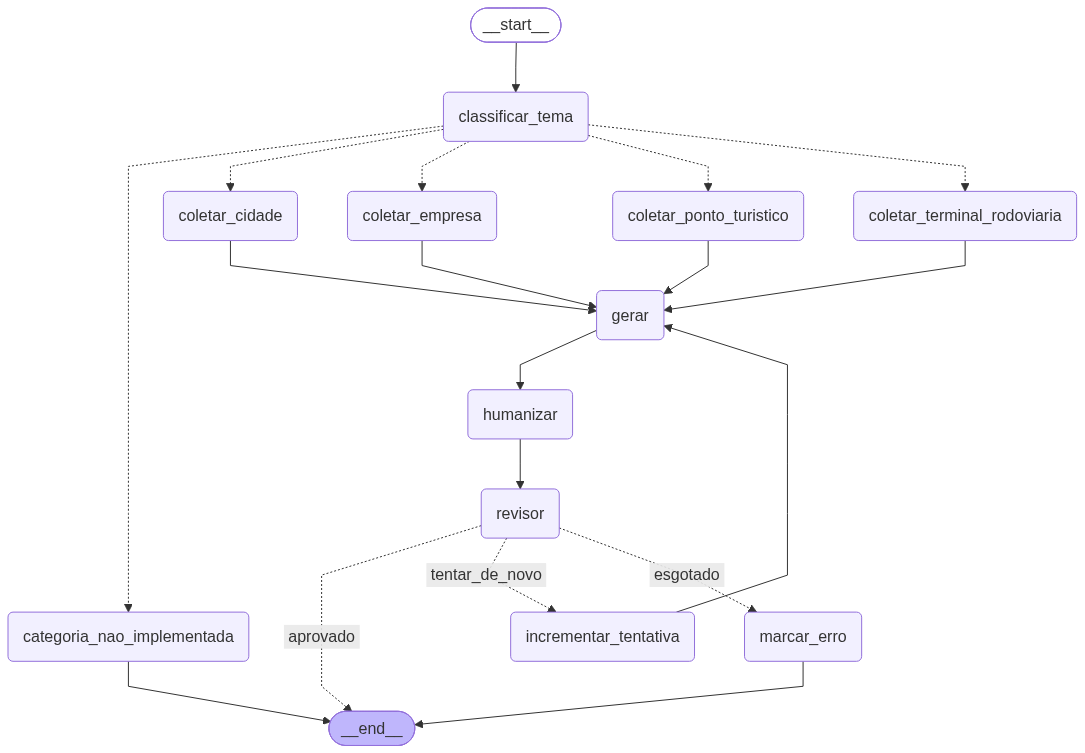
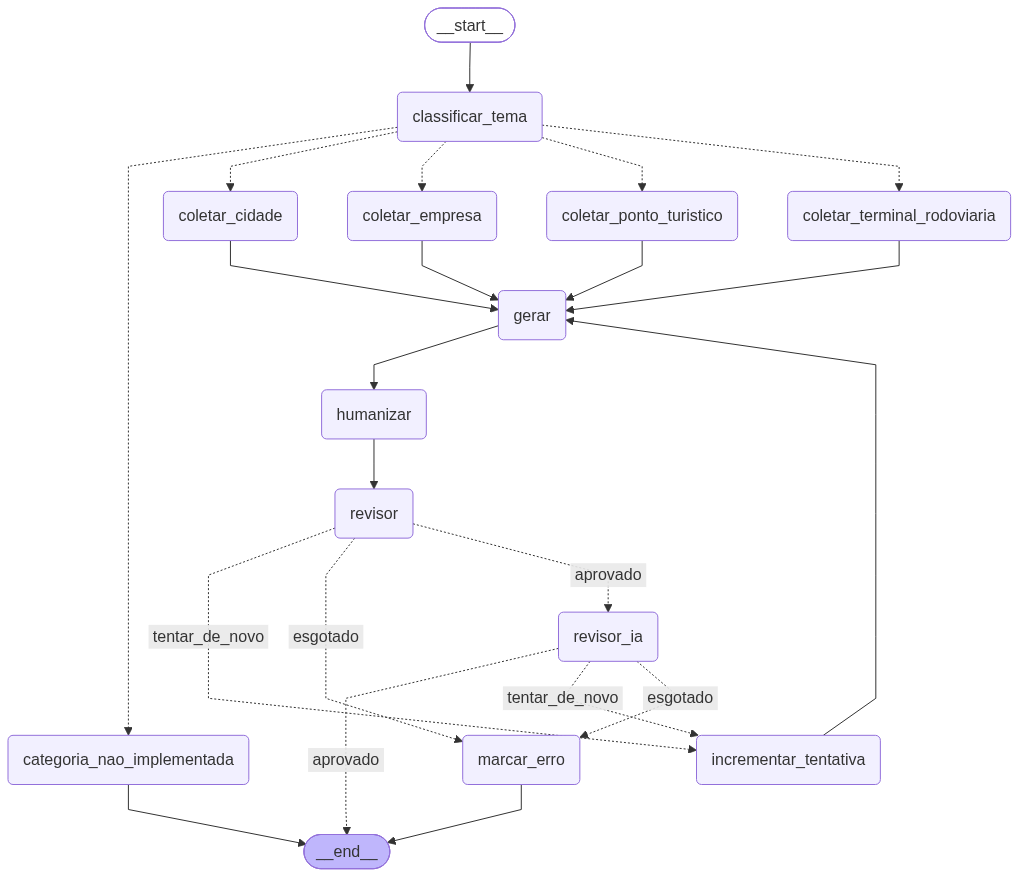
Adicionando Revisor IA

diff --git a/formatos/descricao/grafo_descricao.py b/formatos/descricao/grafo_descricao.py
@@ -2,18 +2,28 @@
 Grafo LangGraph que substitui o par interpretador_descricao + interacao_ia_
 descricao como ponto de entrada de geração: classifica o tema, roteia pra
 coleta certa por categoria, gera, humaniza e revisa o resultado — voltando
-pra geração se o revisor reprovar, até um teto de tentativas.
+pra geração se algum revisor reprovar, até um teto de tentativas.
 
 Só a coleta (e, pra empresa, a classificação de tipo) é ramificada por
-categoria. Gerar, humanizar e revisar são nós únicos, compartilhados por
-qualquer categoria — o humanizador já funciona assim hoje (roda pra
-qualquer descrição, não só empresa), então não faz sentido duplicar esse
-trecho por categoria só porque o revisor é novo.
+categoria. Gerar, humanizar e os dois revisores são nós únicos,
+compartilhados por qualquer categoria — o humanizador já funciona assim
+hoje (roda pra qualquer descrição, não só empresa), então não faz sentido
+duplicar esse trecho por categoria só porque os revisores são novos.
+
+Existem dois revisores em sequência, barato primeiro:
+  1. `revisor` — determinístico (sem LLM): palavra banida, contagem de
+     palavras, passagem/viagem (só empresa), estrutura de parágrafos (só
+     tom vendas). Roda sempre, é de graça.
+  2. `revisor_ia` — só roda se o (1) já tiver aprovado. Usa outro invoke
+     pra julgar TOM e REGRAS PROIBIDAS "em espírito" contra o próprio
+     template de geração (categoria x tom), pegando paráfrases que o
+     determinístico não pode detectar por string exata.
 
 Desenho completo (com o motivo de cada decisão) em:
 https://claude.ai/code/artifact/29df91fe-b5f2-4d65-81b8-33f7bb445103
 """
 
+import json
 from typing import TypedDict
 
 from langgraph.graph import StateGraph, END
@@ -23,9 +33,33 @@ from base_empresas import coletar_empresa
 from base_pontos_turisticos import coletar_ponto_turistico
 from base_cidade import coletando_conteudo
 from base_rodoviarias import coletar_rodoviaria
-from interacao_ia_descricao import gerar_texto_bruto, humanizar_texto
+from interacao_ia_descricao import gerar_texto_bruto, humanizar_texto, modelo, PROMPTS_POR_CATEGORIA
 
 MAX_TENTATIVAS = 3
+
+# Revisor de IA: pega o TEMPLATE de verdade (categoria x tom) já usado na
+# geração e pede pra outro invoke julgar o texto final contra ele. Isso é o
+# que deixa esse revisor geral — não precisa manter uma segunda cópia das
+# regras por categoria, ele lê as mesmas regras que já estão em
+# prompts_descricao.json, sejam quais forem.
+PROMPT_REVISOR_IA = """Você é um revisor de qualidade de textos gerados por IA para um site de conteúdo sobre transporte rodoviário (Buser).
+
+Abaixo estão as INSTRUÇÕES de geração originais (o prompt usado pra criar o texto) e o TEXTO FINAL já pronto, depois de gerado e humanizado.
+
+Cheque duas coisas. Conte como violação mesmo quando ela usa sinônimos ou uma frase reformulada — não precisa ser a string exata de alguma proibição citada nas instruções:
+
+1. TOM: o texto realmente soa como o tom pedido ("{tom}")? Ex: um texto do tom "vendas" sem nenhum benefício de compra citado, ou um texto "informativo"/"promocional" com linguagem de urgência e apelo de venda direto, é uma falha de tom.
+2. REGRAS PROIBIDAS: o texto quebra, em espírito, alguma proibição citada nas instruções (palavra banida parafraseada, admissão de falta de dado, frase de urgência, elogio genérico sem sustentação, atribuição de qualidade/preço fora do permitido, etc.)?
+
+INSTRUÇÕES DE GERAÇÃO (a parte final, de "Informações coletadas"/fontes em diante, não é uma regra — ignore):
+{instrucoes}
+
+TEXTO FINAL:
+{texto}
+
+Responda APENAS com um JSON, sem markdown, sem texto adicional, no formato:
+{{"tom_ok": true ou false, "regras_ok": true ou false, "motivos": ["motivo 1", "motivo 2"]}}
+"""
 
 # Cobre os casos concretos já vistos nos testes desta conversa. Se aparecer
 # um caso novo de palavra banida escapando, é só adicionar aqui — não exige
@@ -58,9 +92,15 @@ class DescricaoState(TypedDict, total=False):
     texto_gerado: str
     texto_humanizado: str
 
-    # revisor
+    # revisor determinístico
     revisao: dict  # {"aprovado": bool, "motivos": [str, ...]}
+    # revisor de IA (só roda se o determinístico já tiver aprovado)
+    revisao_ia: dict  # {"tom_ok": bool, "regras_ok": bool, "motivos": [str, ...]}
     tentativas: int
+    # motivos da última reprovação (de qualquer um dos dois revisores) —
+    # injetado como instrução extra na próxima chamada de "gerar", pra não
+    # reamostrar às cegas repetindo o mesmo erro
+    motivos_reprovacao: list
 
     # saída
     erro: str
@@ -123,6 +163,16 @@ def no_categoria_nao_implementada(state: DescricaoState) -> dict:
 
 
 def no_gerar(state: DescricaoState) -> dict:
+    instrucao_extra = None
+    motivos_reprovacao = state.get("motivos_reprovacao")
+    if motivos_reprovacao:
+        motivos_str = "; ".join(motivos_reprovacao)
+        instrucao_extra = (
+            f"ATENÇÃO: a tentativa anterior de gerar este texto foi reprovada "
+            f"pelos seguintes motivos: {motivos_str}. Corrija isso especificamente "
+            f"nesta nova tentativa, sem repetir o mesmo erro."
+        )
+
     texto = gerar_texto_bruto(
         categoria=state["categoria"],
         entidade=state["entidade"],
@@ -131,6 +181,7 @@ def no_gerar(state: DescricaoState) -> dict:
         media_palavras=state.get("media_palavras"),
         palavras_chave=state.get("palavras_chave"),
         classificacao_tipo=state.get("classificacao_tipo"),
+        instrucao_extra=instrucao_extra,
     )
     return {"texto_gerado": texto}
 
@@ -161,22 +212,39 @@ def _checar_regras(state: DescricaoState) -> list:
         if total_palavras > limite:
             motivos.append(f"{total_palavras} palavras, acima do limite de {limite:.0f}")
 
+    paragrafos = [p for p in texto.split("\n\n") if p.strip()]
+
     classificacao_tipo = state.get("classificacao_tipo")
     if classificacao_tipo and classificacao_tipo["palavra"] == "passagem":
-        # Só checa esse sentido (linha regular/híbrida -> "passagem" tem que
-        # aparecer). O inverso não dá pra checar assim: "viagem" aparece
-        # quase sempre em qualquer texto, mesmo correto, porque "Viagem
-        # segura" é um dos 7 diferenciais da Buser permitidos no prompt —
-        # checar "viagem presente e passagem ausente" reprovava até texto
-        # certo de empresa fretamento puro.
+        # Checagem 1 (ampla): "passagem" tem que aparecer em algum lugar do
+        # texto. O inverso não dá pra checar assim — "viagem" aparece quase
+        # sempre em qualquer texto, mesmo correto, porque "Viagem segura" é
+        # um dos 7 diferenciais da Buser permitidos no prompt.
         if "passagem" not in texto_lower:
             motivos.append(
                 'empresa linha regular/híbrida deveria mencionar "passagem" '
                 'pelo menos uma vez, só apareceu "viagem"'
             )
+        # Checagem 2 (pontual): no tom vendas, o SUBTÍTULO (parágrafo 1) é
+        # a frase de compra ("Reserve sua passagem/viagem...") e é onde a
+        # regra mais importa — a checagem 1 sozinha deixa passar um texto
+        # que erra exatamente aí (usa "viagem" no subtítulo) desde que
+        # "passagem" apareça em qualquer outro parágrafo, como aconteceu
+        # num teste real desta conversa.
+        if state.get("categoria") == "empresa" and state.get("tom") == "vendas" and paragrafos:
+            subtitulo = paragrafos[0].lower()
+            if "viagem" in subtitulo and "passagem" not in subtitulo:
+                motivos.append(
+                    'o subtítulo usa "viagem" em vez de "passagem" — empresa '
+                    'linha regular/híbrida deveria usar "passagem" na frase de compra'
+                )
 
-    if state.get("tom") == "vendas":
-        paragrafos = [p for p in texto.split("\n\n") if p.strip()]
+    # Estrutura de "3 a 4 parágrafos" é específica do template de
+    # empresa/vendas (subtítulo + apresentação + benefícios) — outras
+    # categorias podem ter (ou vir a ter) um template de vendas com uma
+    # estrutura de parágrafos completamente diferente, então essa checagem
+    # não pode valer pra "tom vendas" em geral, só pra empresa/vendas.
+    if state.get("categoria") == "empresa" and state.get("tom") == "vendas":
         if not (3 <= len(paragrafos) <= 4):
             motivos.append(f"{len(paragrafos)} parágrafos, esperado 3 a 4")
 
@@ -185,27 +253,84 @@ def _checar_regras(state: DescricaoState) -> list:
 
 def no_revisor(state: DescricaoState) -> dict:
     motivos = _checar_regras(state)
-    return {"revisao": {"aprovado": not motivos, "motivos": motivos}}
+    # Limpa uma avaliação de IA de uma tentativa anterior — sem isso, se
+    # esta rodada for reprovada aqui (antes de chegar no revisor_ia de
+    # novo), marcar_erro poderia misturar motivos de uma tentativa velha.
+    return {"revisao": {"aprovado": not motivos, "motivos": motivos}, "revisao_ia": None}
 
 
-def _apos_revisor(state: DescricaoState) -> str:
-    if state["revisao"]["aprovado"]:
-        return "aprovado"
+def no_revisor_ia(state: DescricaoState) -> dict:
+    """Só roda depois do revisor determinístico aprovar — barato descarta
+    primeiro, a IA só julga o que já passou nas regras de string/contagem.
+    Usa o template real (categoria x tom) como as "regras", então cobre
+    qualquer categoria sem precisar duplicar lista nenhuma aqui."""
+    categoria = state["categoria"]
+    tom = (state.get("tom") or "informativo").strip().lower()
+    instrucoes = PROMPTS_POR_CATEGORIA.get(categoria, {}).get(tom, {}).get("template", "")
+
+    prompt = PROMPT_REVISOR_IA.format(tom=tom, instrucoes=instrucoes, texto=state["texto_humanizado"])
+    resposta = modelo.invoke(prompt)
+    texto_resposta = resposta.content.strip().replace("```json", "").replace("```", "").strip()
+
+    try:
+        avaliacao = json.loads(texto_resposta)
+    except json.JSONDecodeError:
+        # Se a IA não devolver JSON válido, não trava o pipeline num retry
+        # infinito por causa de um erro de formatação dela mesma — trata
+        # como aprovado (o determinístico já rodou e aprovou antes disso).
+        avaliacao = {
+            "tom_ok": True,
+            "regras_ok": True,
+            "motivos": [f"revisor_ia devolveu resposta não-JSON: {texto_resposta[:200]}"],
+        }
+
+    return {"revisao_ia": avaliacao}
+
+
+def _decidir_retry_ou_esgotado(state: DescricaoState) -> str:
     if state.get("tentativas", 0) + 1 >= MAX_TENTATIVAS:
         return "esgotado"
     return "tentar_de_novo"
 
 
+def _apos_revisor(state: DescricaoState) -> str:
+    if state["revisao"]["aprovado"]:
+        return "aprovado"
+    return _decidir_retry_ou_esgotado(state)
+
+
+def _apos_revisor_ia(state: DescricaoState) -> str:
+    avaliacao = state["revisao_ia"]
+    if avaliacao["tom_ok"] and avaliacao["regras_ok"]:
+        return "aprovado"
+    return _decidir_retry_ou_esgotado(state)
+
+
+def _motivos_da_reprovacao(state: DescricaoState) -> list:
+    """Junta os motivos de quem reprovou desta vez — revisor determinístico
+    ou revisor_ia, o outro fica vazio/aprovado nesse ponto, então dá pra
+    somar os dois sem checar qual foi."""
+    motivos = list((state.get("revisao") or {}).get("motivos") or [])
+    revisao_ia = state.get("revisao_ia")
+    if revisao_ia and not (revisao_ia.get("tom_ok") and revisao_ia.get("regras_ok")):
+        motivos.extend(revisao_ia.get("motivos") or [])
+    return motivos
+
+
 def no_incrementar_tentativa(state: DescricaoState) -> dict:
-    return {"tentativas": state.get("tentativas", 0) + 1}
+    return {
+        "tentativas": state.get("tentativas", 0) + 1,
+        "motivos_reprovacao": _motivos_da_reprovacao(state),
+    }
 
 
 def no_marcar_erro(state: DescricaoState) -> dict:
-    motivos = "; ".join(state["revisao"]["motivos"])
+    motivos = _motivos_da_reprovacao(state)
+    motivos_str = "; ".join(motivos) if motivos else "motivo não registrado"
     return {
         "erro": (
             f"Revisor reprovou {MAX_TENTATIVAS}x seguidas e não foi possível "
-            f"corrigir: {motivos}"
+            f"corrigir: {motivos_str}"
         )
     }
 
@@ -226,6 +351,7 @@ def construir_grafo():
     grafo.add_node("gerar", no_gerar)
     grafo.add_node("humanizar", no_humanizar)
     grafo.add_node("revisor", no_revisor)
+    grafo.add_node("revisor_ia", no_revisor_ia)
     grafo.add_node("incrementar_tentativa", no_incrementar_tentativa)
     grafo.add_node("marcar_erro", no_marcar_erro)
 
@@ -253,6 +379,11 @@ def construir_grafo():
     grafo.add_edge("humanizar", "revisor")
 
     grafo.add_conditional_edges("revisor", _apos_revisor, {
+        "aprovado": "revisor_ia",
+        "tentar_de_novo": "incrementar_tentativa",
+        "esgotado": "marcar_erro",
+    })
+    grafo.add_conditional_edges("revisor_ia", _apos_revisor_ia, {
         "aprovado": END,
         "tentar_de_novo": "incrementar_tentativa",
         "esgotado": "marcar_erro",
@@ -294,6 +425,7 @@ if __name__ == "__main__":
     resultado = gerar_descricao_via_grafo("Expresso JK", tom="vendas", media_palavras=100)
     print(f"categoria: {resultado.get('categoria')}")
     print(f"tentativas: {resultado.get('tentativas')}")
-    print(f"revisao: {resultado.get('revisao')}")
+    print(f"revisao (determinístico): {resultado.get('revisao')}")
+    print(f"revisao_ia: {resultado.get('revisao_ia')}")
     print()
     print(resultado.get("erro") or resultado.get("texto_humanizado"))

diff --git a/formatos/descricao/interacao_ia_descricao.py b/formatos/descricao/interacao_ia_descricao.py
@@ -57,6 +57,7 @@ def gerar_texto_bruto(
     media_palavras: int = None,
     palavras_chave: list = None,
     classificacao_tipo: dict = None,
+    instrucao_extra: str = None,
 ) -> str:
     """
     Monta o prompt certo (categoria x tom) a partir de prompts_descricao.json
@@ -65,6 +66,11 @@ def gerar_texto_bruto(
     grafo (formatos/descricao/grafo_descricao.py), que roda humanizar e
     revisor como nós próprios e pode voltar a chamar só esta função de novo
     se o revisor reprovar.
+
+    instrucao_extra: usado pelo grafo numa nova tentativa depois de uma
+    reprovação — carrega o motivo específico da reprovação anterior, pra
+    não repetir o mesmo erro às cegas numa reamostragem sem nenhuma pista
+    do que falhou da vez passada.
     """
     dados_categoria = PROMPTS_POR_CATEGORIA.get(categoria)
     if not dados_categoria:
@@ -118,6 +124,12 @@ def gerar_texto_bruto(
             + ", ".join(palavras_chave)
             + "."
         )
+
+    if instrucao_extra:
+        # Fica por último de propósito: é a última coisa que o modelo lê
+        # antes de escrever, então tem mais peso que uma correção enterrada
+        # no meio do prompt.
+        prompt += f"\n\n{instrucao_extra}"
 
     resposta = modelo.invoke(prompt, **kwargs_modelo)
     return resposta.content.strip()

diff --git a/formatos/descricao/explicacao_descricao_grafo/grafo_descricao.md b/formatos/descricao/explicacao_descricao_grafo/grafo_descricao.md
@@ -1,22 +1,27 @@
 # Grafo de geração de descrições
 
-Visualização do grafo implementado em [`grafo_descricao.py`](grafo_descricao.py). A imagem abaixo (`grafo_descricao.png`) e o código-fonte do diagrama (`grafo_descricao.mmd`) foram gerados direto do grafo compilado (`_GRAFO.get_graph().draw_mermaid()` / `draw_mermaid_png()`) — não são um desenho à mão, então qualquer mudança nos nós/arestas do código é refletida aqui só rodando de novo o comando no final deste arquivo.
+Visualização do grafo implementado em [`grafo_descricao.py`](../grafo_descricao.py) (uma pasta acima). A imagem abaixo (`grafo_descricao.png`) e o código-fonte do diagrama (`grafo_descricao.mmd`) foram gerados direto do grafo compilado (`_GRAFO.get_graph().draw_mermaid()` / `draw_mermaid_png()`) — não são um desenho à mão, então qualquer mudança nos nós/arestas do código é refletida aqui só rodando de novo o comando no final deste arquivo.
 
 ![Grafo de geração de descrições](grafo_descricao.png)
 
 ## Como ler
 
 - **Só a coleta é ramificada por categoria** (`coletar_cidade`, `coletar_empresa`, `coletar_ponto_turistico`, `coletar_terminal_rodoviaria`) — cada uma chama seu `base_*.py` correspondente. Categorias sem coletor implementado (`estado`, `país`, `evento`, `lugar_genérico`) caem em `categoria_nao_implementada`, que só levanta `NotImplementedError` (a aresta pro `__end__` existe só porque todo nó do LangGraph precisa levar a algum lugar — na prática a exceção sobe antes disso).
-- **`gerar` → `humanizar` → `revisor` são nós únicos**, compartilhados por qualquer categoria que chegue até eles — assim como o humanizador já funciona hoje (roda pra toda descrição, não só empresa).
-- **O único ciclo do grafo** é `revisor -- tentar_de_novo --> incrementar_tentativa --> gerar`: se o revisor reprovar e ainda houver tentativas sobrando (teto de 3, em `MAX_TENTATIVAS`), o texto é gerado de novo do zero. Se reprovar 3x seguidas, cai em `marcar_erro` e sai com o campo `erro` preenchido em vez de um texto.
-- **O revisor é determinístico** (sem LLM) — confere palavra banida, contagem de palavras, e duas checagens condicionais: passagem/viagem (só se a categoria for empresa) e estrutura de 3-4 parágrafos (só se o tom for vendas).
+- **`gerar` → `humanizar` → `revisor` → `revisor_ia` são nós únicos**, compartilhados por qualquer categoria que chegue até eles — assim como o humanizador já funciona hoje (roda pra toda descrição, não só empresa).
+- **Dois revisores em sequência, barato primeiro:**
+  - `revisor` — determinístico, sem LLM. Confere palavra banida, contagem de palavras, e duas checagens condicionais: passagem/viagem (só se a categoria for empresa) e estrutura de 3-4 parágrafos (só se o tom for vendas). Roda sempre, de graça.
+  - `revisor_ia` — só roda se o `revisor` já tiver aprovado (não gasta uma chamada de IA em texto que já ia ser reprovado de graça). Julga TOM e REGRAS PROIBIDAS "em espírito" — pega paráfrase de coisa banida, elogio genérico, atribuição de qualidade indevida à empresa etc., que o determinístico não detecta por não bater a string exata. Usa o próprio template de geração (categoria x tom) como as regras, então cobre qualquer categoria sem duplicar lista nenhuma.
+- **O único ciclo do grafo** é `(revisor ou revisor_ia) -- tentar_de_novo --> incrementar_tentativa --> gerar`: se qualquer um dos dois reprovar e ainda houver tentativas sobrando (teto de 3, em `MAX_TENTATIVAS`), o texto é gerado de novo do zero — passando pelos dois revisores de novo. Se reprovar 3x seguidas, cai em `marcar_erro` e sai com o campo `erro` preenchido em vez de um texto.
+- **O `revisor_ia` não é 100% consistente entre chamadas** (é um julgamento por LLM, não uma regra fixa) — na prática, o mesmo tipo de frase pode ser aprovado numa rodada e reprovado em outra. É o motivo de ele rodar só depois do determinístico: o que é checável por regra exata fica garantido; o resto fica sujeito a julgamento, com o teto de tentativas evitando loop infinito quando ele fica preso reprovando a mesma coisa repetidas vezes.
 
 ## Como regenerar
 
+Rodar a partir de `formatos/descricao/` (onde `grafo_descricao.py` fica, pra importar certo), salvando dentro desta subpasta:
+
 ```bash
 python -c "from grafo_descricao import _GRAFO; \
-    open('grafo_descricao.mmd', 'w', encoding='utf-8').write(_GRAFO.get_graph().draw_mermaid()); \
-    open('grafo_descricao.png', 'wb').write(_GRAFO.get_graph().draw_mermaid_png())"
+    open('explicacao_descricao_grafo/grafo_descricao.mmd', 'w', encoding='utf-8').write(_GRAFO.get_graph().draw_mermaid()); \
+    open('explicacao_descricao_grafo/grafo_descricao.png', 'wb').write(_GRAFO.get_graph().draw_mermaid_png())"
 ```
 
 (`draw_mermaid_png()` usa a API pública do mermaid.ink pra renderizar — precisa de internet; `draw_mermaid()` sozinho já dá o texto do diagrama, sem depender de rede.)
